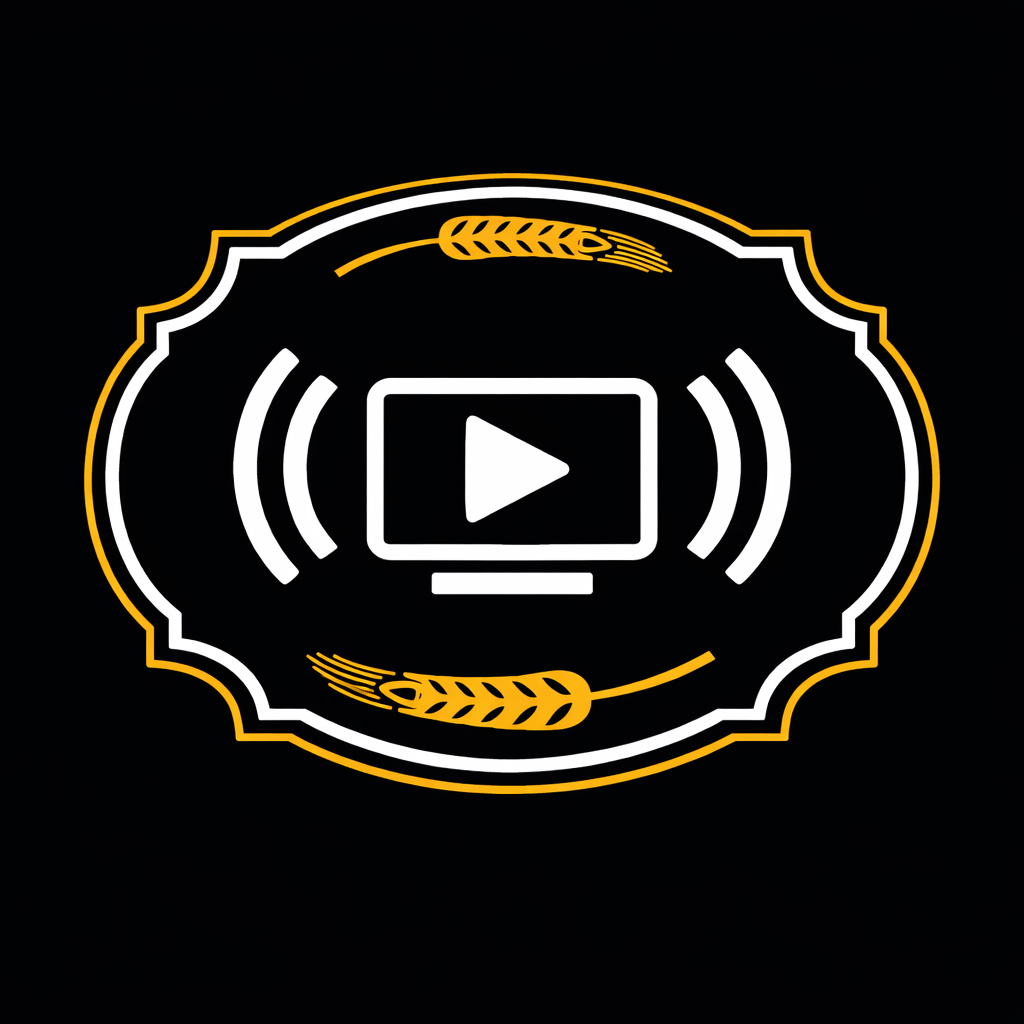
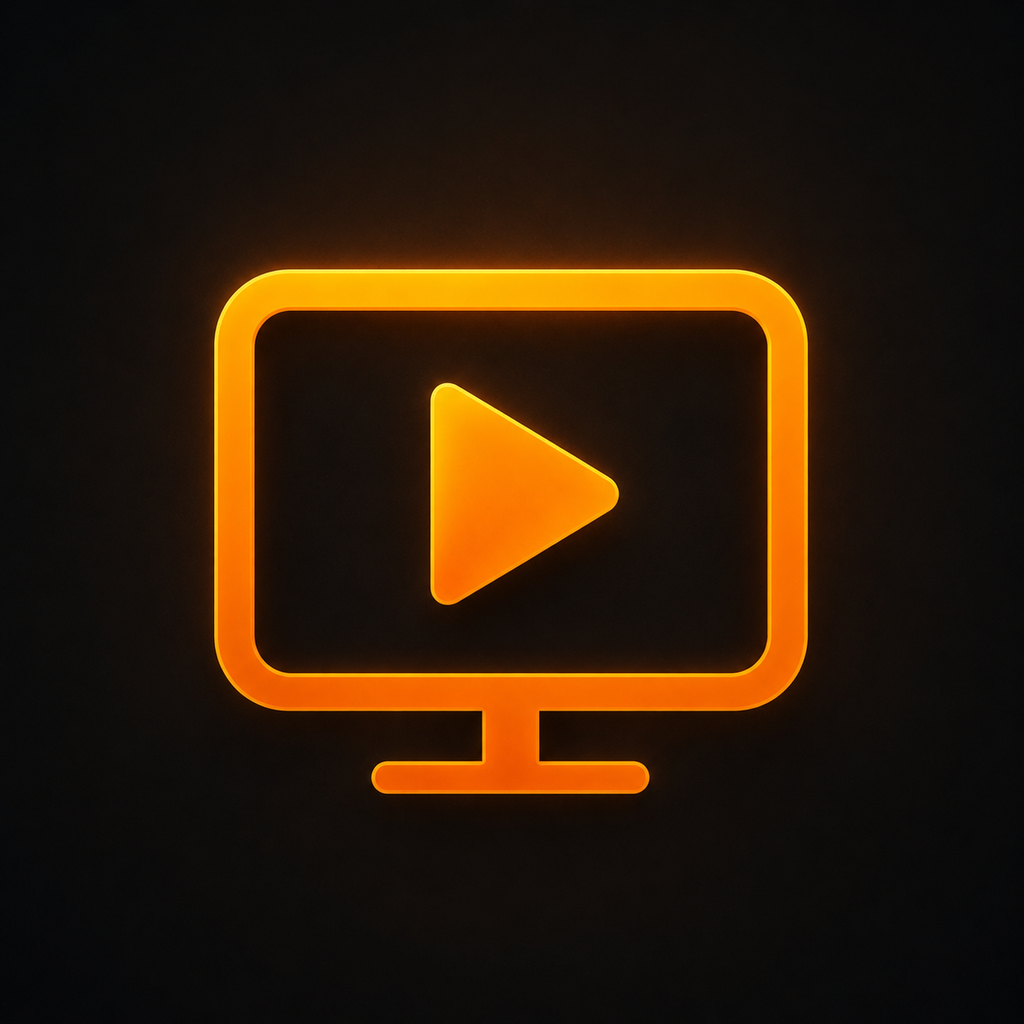
Изменил иконку приложения player
Обновил иконку player для Expo, Android и adaptive icon-конфигурации.
- apps/bufet-media-player/assets/images/icon.png: заменил основную иконку на предоставленное изображение и привёл её к размеру 1024×1024.
- apps/bufet-media-player/app.config.ts: направил Android adaptive icon на новую иконку и задал тёмный цвет фона.

diff --git a/apps/bufet-media-player/app.config.ts b/apps/bufet-media-player/app.config.ts
@@ -40,10 +40,8 @@ export default (): ExpoConfig => {
     },
     android: {
       adaptiveIcon: {
-        backgroundColor: '#E6F4FE',
-        foregroundImage: './assets/images/android-icon-foreground.png',
-        backgroundImage: './assets/images/android-icon-background.png',
-        monochromeImage: './assets/images/android-icon-monochrome.png',
+        backgroundColor: '#0B0807',
+        foregroundImage: './assets/images/icon.png',
       },
       predictiveBackGestureEnabled: false,
       package: 'com.lyabowski.bufetmediaplayer',
